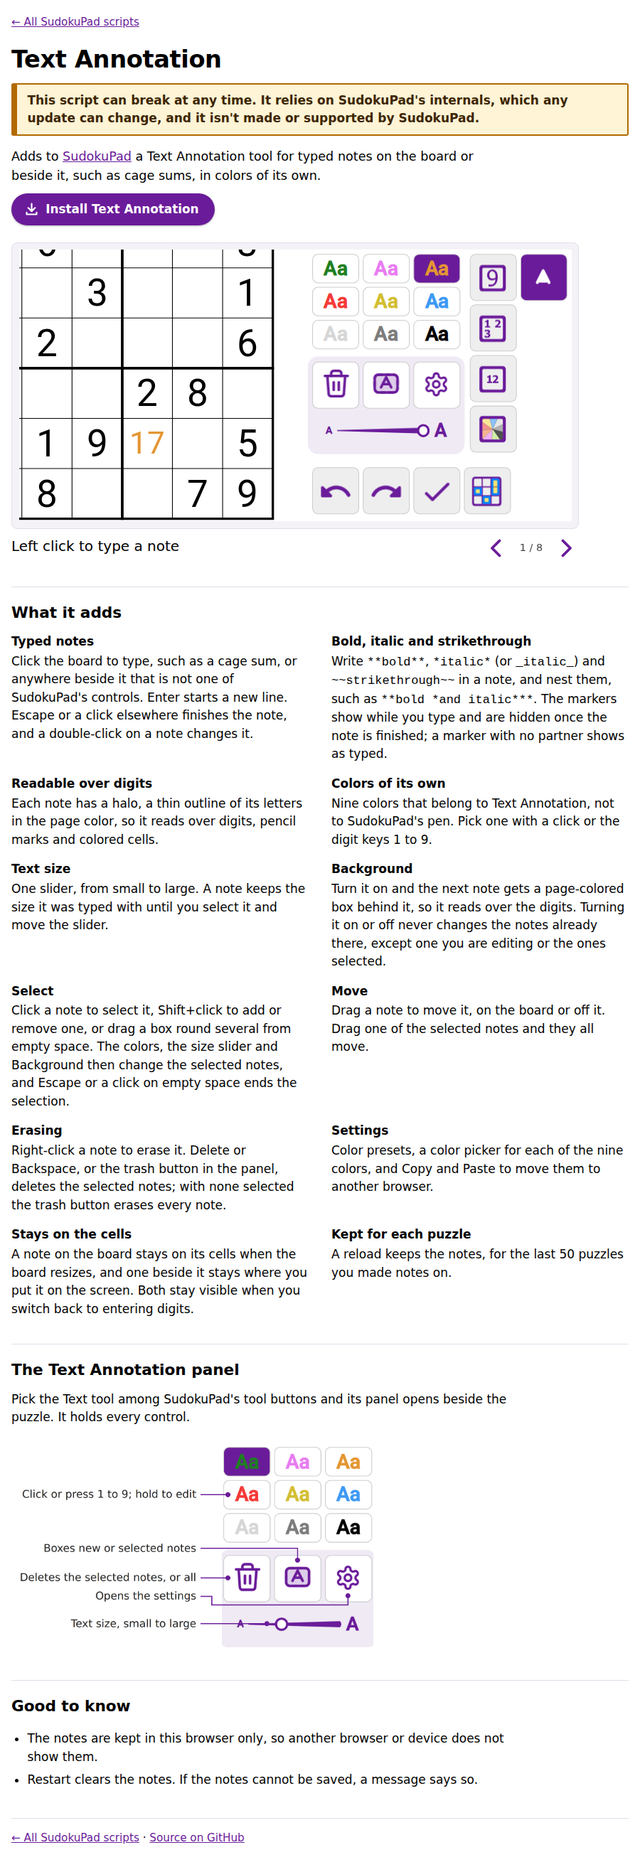
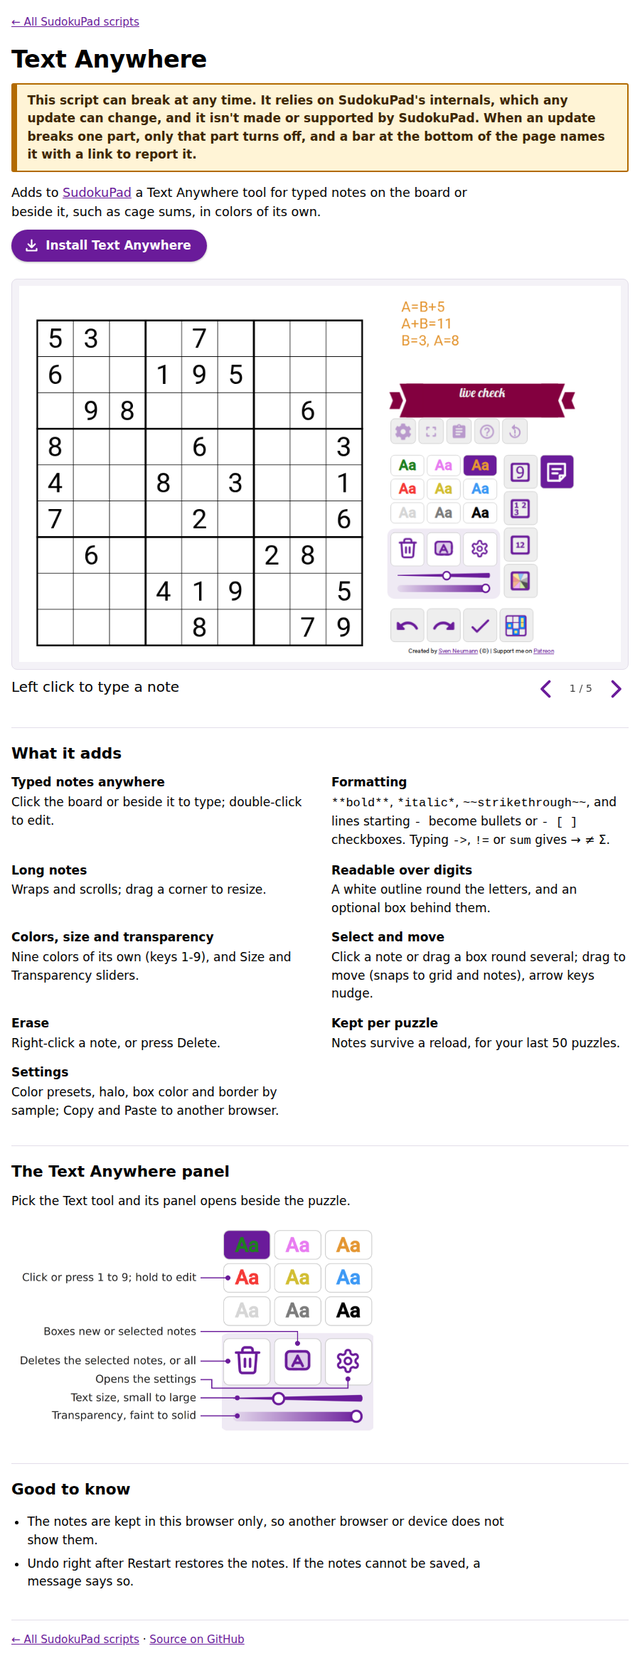
Text Anywhere: symbols as you type, checklists, see-through drag (#548)
* Text Anywhere: symbols as you type, checklists, see-through drag (#532)

Closes #532

* Text Anywhere: review fixes — sum on close, typed-only symbols, shared opacity, glossary (#532)

Closes #532

---------

Changed region(s): [[0.0, 0.0, 0.9956, 0.9957], [0.9333, 0.6535, 0.9644, 0.6846], [0.7156, 0.7468, 0.7467, 0.7779]]

diff --git a/draw-tool.user.js b/draw-tool.user.js
@@ -1,7 +1,7 @@
 // ==UserScript==
 // @name         SudokuPad Text Anywhere
 // @namespace    https://github.com/caneff/sudokupad-scripts
-// @version      0.32.0
+// @version      0.33.0
 // @description  Adds a Text Anywhere tool for typed notes on the board or beside it, such as cage sums, in colors of its own. Each puzzle keeps its own notes.
 // @match        https://sudokupad.app/*
 // @match        https://*.sudokupad.app/*
@@ -16,7 +16,7 @@
 (function () {
   'use strict'
 
-  const VERSION = '0.32.0'
+  const VERSION = '0.33.0'
   const TOOL_NAME = 'draw'
   const LAYER_ID = 'draw-tool-layer'
   const MIN_WIDTH = 1
@@ -217,6 +217,12 @@
   const TEXT_CLASS = 'draw-tool-text'
   const TEXT_BACKGROUND_CLASS = 'draw-tool-text-bg'
   const SELECTED_CLASS = 'draw-tool-selected'
+  const CHECK_CLASS = 'draw-tool-check'
+  const CHECK_DONE_CLASS = 'draw-tool-check-done'
+  // A ticked item's line fades to this share of the note's own look.
+  const DONE_OPACITY = 0.6
+  // A note being moved is drawn at this share of its own opacity, so the board shows through.
+  const MOVING_OPACITY = 0.6
   // The notes' two groups in the layer: the notes on the board, in board units under the board's own transform, and the fixed notes, in screen pixels,
   // drawn above them.
   const BOARD_NOTES_CLASS = 'draw-tool-board'
@@ -338,8 +344,36 @@
   }
 
   const BULLET_MARK = /^[-*] /
-  // A bullet line's first run is the bullet itself, `{ text: '•', bullet: true }`.
-  const parseBlock = (line) => BULLET_MARK.test(line) ? [{ text: '•', bullet: true }, ...parseLine(line.slice(2))] : parseLine(line)
+  const CHECK_MARK = /^- \[([ xX])\] /
+  // A bullet line's first run is the bullet itself, `{ text: '•', bullet: true }`. A checklist line takes the bullet's place with `{ text: '☐' | '☑', bullet: true, checked }`.
+  function parseBlock (line) {
+    const check = CHECK_MARK.exec(line)
+    if (check) {
+      const checked = check[1] !== ' '
+      return [{ text: checked ? '☑' : '☐', bullet: true, checked }, ...parseLine(line.slice(check[0].length))]
+    }
+    return BULLET_MARK.test(line) ? [{ text: '•', bullet: true }, ...parseLine(line.slice(2))] : parseLine(line)
+  }
+
+  function toggledCheck (text, index) {
+    return text.split('\n').map((line, i) => i === index ? line.replace(CHECK_MARK, (mark, state) => `- [${state === ' ' ? 'x' : ' '}] `) : line).join('\n')
+  }
+
+  // Symbols typed as ASCII. `sum` is a word of its own, so "summary" stays.
+  const SYMBOLS = { '->': '→', '<-': '←', '!=': '≠', '<=': '≤', '>=': '≥', sum: 'Σ' }
+  const SYMBOL_PATTERN = /->|<-|!=|<=|>=|\bsum\b/g
+  // A note that ends in the word `sum` has no character typed after it to complete it, so closing the note does.
+  const closedSymbols = (text) => text.replace(/\bsum$/, SYMBOLS.sum)
+
+  // The symbol the character just typed before `caret` completed, or null. A pair is complete at the caret; `sum` only once a character that is not part of a word follows it.
+  function symbolJustTyped (text, caret) {
+    for (const found of text.slice(0, caret).matchAll(SYMBOL_PATTERN)) {
+      const end = found.index + found[0].length
+      if (end === caret && found[0] !== 'sum') return { start: found.index, end, symbol: SYMBOLS[found[0]] }
+      if (end === caret - 1 && found[0] === 'sum') return { start: found.index, end, symbol: SYMBOLS.sum }
+    }
+    return null
+  }
 
   const isBullet = (runs) => Boolean(runs[0]?.bullet)
   const BULLET_INDENT_EM = 1.2
@@ -548,6 +582,8 @@
   const textSizeFor = (width) => TEXT_SIZE_PER_WIDTH * width + TEXT_SIZE_BASE
   const widthFor = (size) => (size - TEXT_SIZE_BASE) / TEXT_SIZE_PER_WIDTH
   const itemOpacity = (item) => item.opacity ?? DEFAULT_OPACITY
+  // A note's opacity as the CSS number.
+  const noteOpacity = (item) => itemOpacity(item) / 100
   const readOpacity = (saved) => isOpacity(saved) ? saved : DEFAULT_OPACITY
 
   // A color or background the notes do not share is null; a slider must show one value, so it shows the first note's (the oldest).
@@ -1515,7 +1551,7 @@
     return Math.round(from + (to - from) * Math.min(1, (heldMs - NUDGE_REPEAT_MS) / NUDGE_RAMP_MS))
   }
   if (typeof module !== 'undefined' && module.exports) {
-    module.exports = { snapAxis, SNAP_PX, nudgeStep, NUDGE_PX, NUDGE_SHIFT_PX, NUDGE_REPEAT_MS, NUDGE_RAMP_MS, NUDGE_MAX_PX, NUDGE_SHIFT_MAX_PX, VERSION, lackingInternals, FEATURES, READERS, TOOL_NAME, toolNamesFor, readDrawing, loadDrawing, puzzleKey, touchIndex, readIndex, saveDrawingTo, keepRestartedTo, DRAWING_PREFIX, RESTARTED_PREFIX, INDEX_KEY, DEFAULT_COLOR, DEFAULT_WIDTH, MIN_WIDTH, MAX_WIDTH, MIN_OPACITY, MAX_OPACITY, DEFAULT_OPACITY, drawColor, readColor, readWidth, readBackground, textSizeFor, OUTLINES, DEFAULT_OUTLINE, OUTLINE_LABELS, readOutline, haloShadow, OUTLINE_EM, itemOpacity, readOpacity, ERASE_TOLERANCE, textItem, textBox, noteBox, parseMarkdown, notesTouched, panelLooks, touchesText, placedItem, boardView, screenPoint, SHOWN_AT, noteScreenBox, resizedItem, autoSized, CORNERS, reachablePoint, DRAWN_SIZE, BOX_WIDTH_EM, BOX_LINES, LINE_HEIGHT, MIN_BOX_EM, isClick, CLICK_SLOP, SUDOKUPAD_PEN_COLORS, hexColor, readDrawColors, presetOptions, presetColors, copiedSettings, pastedSettings, pasteReport, PRESET_LABELS, COLORS_KEY, WIDTH_KEY, OPACITY_KEY, OUTLINE_KEY, BACKGROUND_KEY, BOX_KEY, FRAME_KEY, BOX_PRESETS, DEFAULT_BOX, BOX_YELLOW, readBox, boxChoice, boxFill, FRAME_COLOR, readFrame, frameShadow, renderSamplePicks, copiedPenColors, editedColor, colorsCss, HOLD_TO_EDIT_MS }
+    module.exports = { snapAxis, SNAP_PX, nudgeStep, NUDGE_PX, NUDGE_SHIFT_PX, NUDGE_REPEAT_MS, NUDGE_RAMP_MS, NUDGE_MAX_PX, NUDGE_SHIFT_MAX_PX, VERSION, lackingInternals, FEATURES, READERS, TOOL_NAME, toolNamesFor, readDrawing, loadDrawing, puzzleKey, touchIndex, readIndex, saveDrawingTo, keepRestartedTo, DRAWING_PREFIX, RESTARTED_PREFIX, INDEX_KEY, DEFAULT_COLOR, DEFAULT_WIDTH, MIN_WIDTH, MAX_WIDTH, MIN_OPACITY, MAX_OPACITY, DEFAULT_OPACITY, drawColor, readColor, readWidth, readBackground, textSizeFor, OUTLINES, DEFAULT_OUTLINE, OUTLINE_LABELS, readOutline, haloShadow, OUTLINE_EM, itemOpacity, readOpacity, ERASE_TOLERANCE, textItem, textBox, noteBox, parseMarkdown, closedSymbols, symbolJustTyped, toggledCheck, notesTouched, panelLooks, touchesText, placedItem, boardView, screenPoint, SHOWN_AT, noteScreenBox, resizedItem, autoSized, CORNERS, reachablePoint, DRAWN_SIZE, BOX_WIDTH_EM, BOX_LINES, LINE_HEIGHT, MIN_BOX_EM, isClick, CLICK_SLOP, SUDOKUPAD_PEN_COLORS, hexColor, readDrawColors, presetOptions, presetColors, copiedSettings, pastedSettings, pasteReport, PRESET_LABELS, COLORS_KEY, WIDTH_KEY, OPACITY_KEY, OUTLINE_KEY, BACKGROUND_KEY, BOX_KEY, FRAME_KEY, BOX_PRESETS, DEFAULT_BOX, BOX_YELLOW, readBox, boxChoice, boxFill, FRAME_COLOR, readFrame, frameShadow, renderSamplePicks, copiedPenColors, editedColor, colorsCss, HOLD_TO_EDIT_MS }
   }
   if (typeof document === 'undefined') return
 
@@ -1596,8 +1632,8 @@
       maxWidth: limit,
       maxHeight: limit,
       color: itemColor(item.color),
-      opacity: String(itemOpacity(item) / 100),
-      [NOTE_OPACITY_VAR]: String(itemOpacity(item) / 100),
+      opacity: String(noteOpacity(item)),
+      [NOTE_OPACITY_VAR]: String(noteOpacity(item)),
       backgroundColor: item.bg ? boxFill(boxColor, itemColor(item.color)) : 'transparent',
       boxShadow: item.bg ? frameShadow(frame) : 'none',
       textShadow: item.bg ? 'none' : haloShadow(outline, PAGE_COLOR),
@@ -1630,12 +1666,23 @@
     return element
   }
 
+  function checkBox (checked, lineIndex) {
+    const box = document.createElement('span')
+    box.className = checked ? `${CHECK_CLASS} ${CHECK_DONE_CLASS}` : CHECK_CLASS
+    box.dataset.line = String(lineIndex)
+    return box
+  }
+
   // A bullet line is a block whose first line hangs out over the indent: the bullet sits in the indent, wrapped lines start at its right.
-  function bulletElement ([mark, ...runs]) {
+  function bulletElement ([mark, ...runs], lineIndex) {
     const line = document.createElement('div')
     Object.assign(line.style, { paddingLeft: `${BULLET_INDENT_EM}em`, textIndent: `-${BULLET_INDENT_EM}em` })
     const bullet = document.createElement('span')
-    bullet.textContent = mark.text
+    if (mark.checked === undefined) bullet.textContent = mark.text
+    else {
+      bullet.append(checkBox(mark.checked, lineIndex))
+      if (mark.checked) Object.assign(line.style, { textDecoration: 'line-through', opacity: String(DONE_OPACITY) })
+    }
     Object.assign(bullet.style, { display: 'inline-block', width: `${BULLET_INDENT_EM}em`, textIndent: '0' })
     line.append(bullet, ...runs.map(runElement))
     return line
@@ -1647,7 +1694,7 @@
   // A finished note shows the styled runs, lines joined by line breaks.
   function noteContent (text) {
     const lines = parsedText(text)
-    return lines.flatMap((runs, i) => [...(i && breaksBefore(runs, lines[i - 1]) ? ['\n'] : []), ...(isBullet(runs) ? [bulletElement(runs)] : runs.map(runElement))])
+    return lines.flatMap((runs, i) => [...(i && breaksBefore(runs, lines[i - 1]) ? ['\n'] : []), ...(isBullet(runs) ? [bulletElement(runs, i)] : runs.map(runElement))])
   }
 
   // The note open for typing shows its text as typed, markers and all.
@@ -1786,6 +1833,9 @@
     // The fill is a background image because the note's inline background color, empty or its box, wins over any stylesheet color.
     `.${ACTIVE_CLASS} .${TEXT_CLASS}:not(.${TEXT_BOX_CLASS}) { pointer-events: auto; cursor: move; }`,
     `.${ACTIVE_CLASS} .${TEXT_CLASS}:not(.${TEXT_BOX_CLASS}, .${SELECTED_CLASS}):hover { ${hoverLook(35, 4)} }`,
+    `.${CHECK_CLASS} { display: inline-block; box-sizing: border-box; width: 0.8em; height: 0.8em; border: 2px solid currentColor; border-radius: 3px; vertical-align: -0.05em; position: relative; }`,
+    `.${CHECK_DONE_CLASS}::after { content: ''; position: absolute; left: 0.2em; top: -0.1em; width: 0.25em; height: 0.5em; border: solid currentColor; border-width: 0 2px 2px 0; transform: rotate(45deg); }`,
+    `.${ACTIVE_CLASS} .${TEXT_CLASS}:not(.${TEXT_BOX_CLASS}) .${CHECK_CLASS} { cursor: pointer; }`,
     `:is(.${BOARD_NOTES_CLASS}, .${SCREEN_NOTES_CLASS}) { position: absolute; left: 0; top: 0; transform-origin: 0 0; }`,
     // The outline is a box of its own in the layer, since a note's opacity would fade an outline drawn on the note itself.
     `.${SELECTION_CLASS} { position: absolute; box-sizing: border-box; pointer-events: none; outline: ${SELECTION_OUTLINE_PX}px solid ${PANEL_COLOR}; outline-offset: ${SELECTION_OFFSET_PX}px; }`,
@@ -2644,13 +2694,35 @@
       else finishText()
     }))
     // Typing grows the box, which carries the handles and may start the text scrolling.
-    element.addEventListener('input', under(textTool, () => { if (editing && editing.element === element) showEditing(boardMap()) }))
+    element.addEventListener('input', under(textTool, (event) => {
+      if (!editing || editing.element !== element) return
+      // Only a typed character completes a symbol: deleting, pasting and Undo leave the text as it is.
+      if (event.inputType === 'insertText') replaceTypedSymbol()
+      showEditing(boardMap())
+    }))
     editing = { index, item, element }
     drawingLayer().append(element)
     redraw()
     element.focus()
     window.getSelection().selectAllChildren(element)
     window.getSelection().collapseToEnd()
+  }
+
+  // A symbol the last typed character completed is typed over with its sign, as an insertion, so the caret stays after it and the browser's Undo can give the typed characters back.
+  function replaceTypedSymbol () {
+    const selection = window.getSelection()
+    const { anchorNode, anchorOffset } = selection
+    if (!selection.isCollapsed || anchorNode?.nodeType !== window.Node.TEXT_NODE || !editing.element.contains(anchorNode)) return
+    const found = symbolJustTyped(anchorNode.data, anchorOffset)
+    if (!found) return
+    const range = document.createRange()
+    range.setStart(anchorNode, found.start)
+    range.setEnd(anchorNode, found.end)
+    selection.removeAllRanges()
+    selection.addRange(range)
+    document.execCommand('insertText', false, found.symbol)
+    // `sum` ends before the character typed after it, which the insertion carried the caret behind.
+    if (found.end !== anchorOffset) selection.modify('move', 'forward', 'character')
   }
 
   // The focus went to a panel button (`caret` was saved then, null with no caret); the note takes it back, once.
@@ -2685,7 +2757,8 @@
   function finishText () {
     const { index, item, element } = closeEditing()
     const before = index === -1 ? '' : drawing[index].text
-    const text = typedText(element)
+    const typed = typedText(element)
+    const text = typed === before ? typed : closedSymbols(typed)
     const changed = text !== before || (index !== -1 && (item.color !== drawing[index].color || item.size !== drawing[index].size || itemOpacity(item) !== itemOpacity(drawing[index]) || Boolean(item.bg) !== Boolean(drawing[index].bg) || String(item.box) !== String(drawing[index].box)))
     if (changed) {
       if (text === '') drawing.splice(index, 1)
@@ -2722,6 +2795,15 @@
   // pointer is released, even when the slider did not move.
   function keepNoteFocus (event) {
     if (editing && isPanelControl(event.target) && !event.target.closest(`.${SLIDERS_CLASS} input`)) event.preventDefault()
+  }
+
+  // A press on a checklist box ticks or unticks its item and saves the note; it opens no note and starts no drag.
+  function tickCheck (note, box) {
+    const index = drawing.findIndex((item) => item[NOTE_ELEMENT] === note)
+    if (index === -1) return
+    drawing[index] = { ...drawing[index], text: toggledCheck(drawing[index].text, Number(box.dataset.line)) }
+    saveNotes()
+    redraw()
   }
 
   // A drag ends its move or its selection rectangle on its release; a press that never moved does nothing more, unless `click` is given to run it.
@@ -2793,6 +2875,7 @@
       const [x, y] = screenPoint(item, map.toScreen)
       const [tx, ty] = item.fixed ? [dx, dy] : map.toBoard([x + dx, y + dy]).map((v, i) => v - item.at[i])
       element.style.translate = `${tx}px ${ty}px`
+      element.style.opacity = String(noteOpacity(item) * MOVING_OPACITY)
     }
   }
 
@@ -2831,7 +2914,7 @@
 
   function clearMove (d) {
     showGuides(null)
-    for (const { item } of d.move) if (item[NOTE_ELEMENT]) item[NOTE_ELEMENT].style.translate = ''
+    for (const { item } of d.move) if (item[NOTE_ELEMENT]) Object.assign(item[NOTE_ELEMENT].style, { translate: '', opacity: String(noteOpacity(item)) })
   }
 
   // The moves that reached the drag since the last frame, in order. A move goes no further than the last point that leaves every note reachable.
@@ -3088,6 +3171,11 @@
       // A press on a note moves the selection once it drags, after selecting just that note when it was not selected; with Shift it only adds or removes the note on its release.
       // A press on empty space draws a selection rectangle once it drags.
       const note = noteOf(event)
+      const box = event.target.closest(`.${CHECK_CLASS}`)
+      if (note && box) {
+        tickCheck(note, box)
+        return true
+      }
       const start = note ? drawing.findIndex((item) => item[NOTE_ELEMENT] === note) : -1
       const shift = event.shiftKey
       if (start !== -1 && !shift && !selected.includes(start)) select([start])

diff --git a/test/draw-tool.test.js b/test/draw-tool.test.js
@@ -6,7 +6,7 @@ const path = require('node:path')
 const { headerVersion } = require('./header-version.js')
 const { quietly } = require('./fake-store.js')
 const { failEachListener } = require('./specs/broken-sudokupad.js')
-const { snapAxis, SNAP_PX, nudgeStep, NUDGE_PX, NUDGE_SHIFT_PX, NUDGE_REPEAT_MS, NUDGE_RAMP_MS, NUDGE_MAX_PX, NUDGE_SHIFT_MAX_PX, VERSION, lackingInternals, FEATURES, TOOL_NAME, toolNamesFor, readDrawing, loadDrawing, touchIndex, readIndex, saveDrawingTo, keepRestartedTo, DRAWING_PREFIX, RESTARTED_PREFIX, INDEX_KEY, DEFAULT_COLOR, DEFAULT_WIDTH, MIN_WIDTH, MAX_WIDTH, DEFAULT_OPACITY, drawColor, readColor, readWidth, readBackground, textSizeFor, itemOpacity, ERASE_TOLERANCE, textItem, textBox, noteBox, parseMarkdown, notesTouched, panelLooks, touchesText, placedItem, boardView, screenPoint, SHOWN_AT, resizedItem, autoSized, CORNERS, reachablePoint, noteScreenBox, DRAWN_SIZE, isClick, CLICK_SLOP, SUDOKUPAD_PEN_COLORS, hexColor, readDrawColors, copiedPenColors, editedColor, colorsCss, presetOptions, presetColors, copiedSettings, pastedSettings, READERS, PRESET_LABELS, COLORS_KEY, WIDTH_KEY, OPACITY_KEY, OUTLINE_KEY, MIN_OPACITY, MAX_OPACITY, readOpacity, OUTLINES, DEFAULT_OUTLINE, OUTLINE_LABELS, readOutline, haloShadow, OUTLINE_EM, BOX_KEY, FRAME_KEY, BOX_PRESETS, DEFAULT_BOX, readBox, boxChoice, boxFill, readFrame, frameShadow, renderSamplePicks, FRAME_COLOR, BOX_YELLOW } = require('../draw-tool.user.js')
+const { snapAxis, SNAP_PX, nudgeStep, NUDGE_PX, NUDGE_SHIFT_PX, NUDGE_REPEAT_MS, NUDGE_RAMP_MS, NUDGE_MAX_PX, NUDGE_SHIFT_MAX_PX, VERSION, lackingInternals, FEATURES, TOOL_NAME, toolNamesFor, readDrawing, loadDrawing, touchIndex, readIndex, saveDrawingTo, keepRestartedTo, DRAWING_PREFIX, RESTARTED_PREFIX, INDEX_KEY, DEFAULT_COLOR, DEFAULT_WIDTH, MIN_WIDTH, MAX_WIDTH, DEFAULT_OPACITY, drawColor, readColor, readWidth, readBackground, textSizeFor, itemOpacity, ERASE_TOLERANCE, textItem, textBox, noteBox, parseMarkdown, closedSymbols, symbolJustTyped, toggledCheck, notesTouched, panelLooks, touchesText, placedItem, boardView, screenPoint, SHOWN_AT, resizedItem, autoSized, CORNERS, reachablePoint, noteScreenBox, DRAWN_SIZE, isClick, CLICK_SLOP, SUDOKUPAD_PEN_COLORS, hexColor, readDrawColors, copiedPenColors, editedColor, colorsCss, presetOptions, presetColors, copiedSettings, pastedSettings, READERS, PRESET_LABELS, COLORS_KEY, WIDTH_KEY, OPACITY_KEY, OUTLINE_KEY, MIN_OPACITY, MAX_OPACITY, readOpacity, OUTLINES, DEFAULT_OUTLINE, OUTLINE_LABELS, readOutline, haloShadow, OUTLINE_EM, BOX_KEY, FRAME_KEY, BOX_PRESETS, DEFAULT_BOX, readBox, boxChoice, boxFill, readFrame, frameShadow, renderSamplePicks, FRAME_COLOR, BOX_YELLOW } = require('../draw-tool.user.js')
 const readPaste = (text) => pastedSettings(text, READERS)
 
 // The parts of an Event toolNamesFor reads: eventPhase is 0 once the browser has finished dispatching it.
@@ -621,6 +621,57 @@ test('a dash that does not start a line, or has no space after it, is not a bull
 
 test('a line that starts with italic markers and no space is italic, not a bullet', () => {
   assert.deepEqual(parseMarkdown('*one* and'), [[{ text: 'one', italic: true }, { text: ' and' }]])
+})
+
+test('a line starting "- [ ] " or "- [x] " is a checklist item, a box run with its checked state, then the rest read as markdown', () => {
+  assert.deepEqual(parseMarkdown('- [ ] buy'), [[{ text: '☐', bullet: true, checked: false }, { text: 'buy' }]])
+  assert.deepEqual(parseMarkdown('- [x] **done**'), [[{ text: '☑', bullet: true, checked: true }, { text: 'done', bold: true }]])
+  assert.deepEqual(parseMarkdown('- [X] caps')[0][0].checked, true)
+})
+
+test('a "- [" line without the box shape, or a plain "- " line, stays a bullet', () => {
+  assert.deepEqual(parseMarkdown('- [] x'), [[{ text: '•', bullet: true }, { text: '[] x' }]])
+  assert.deepEqual(parseMarkdown('- [ ]x'), [[{ text: '•', bullet: true }, { text: '[ ]x' }]])
+  assert.deepEqual(parseMarkdown('- one'), [[{ text: '•', bullet: true }, { text: 'one' }]])
+})
+
+test('toggledCheck flips one line\'s box and leaves the other lines alone', () => {
+  assert.equal(toggledCheck('a\n- [ ] b\n- [ ] c', 1), 'a\n- [x] b\n- [ ] c')
+  assert.equal(toggledCheck('- [x] b', 0), '- [ ] b')
+  assert.equal(toggledCheck('- [X] b', 0), '- [ ] b')
+  assert.equal(toggledCheck('plain', 0), 'plain')
+})
+
+test('closedSymbols turns a note\'s last word "sum" into a sigma, since nothing is typed after it', () => {
+  assert.equal(closedSymbols('r5 sum'), 'r5 Σ')
+  assert.equal(closedSymbols('sum'), 'Σ')
+  assert.equal(closedSymbols('sum of 5'), 'sum of 5')
+  assert.equal(closedSymbols('summary'), 'summary')
+  assert.equal(closedSymbols('subsum'), 'subsum')
+  assert.equal(closedSymbols('a->b'), 'a->b')
+})
+
+test('symbolJustTyped gives each pair its sign', () => {
+  const sign = (pair) => symbolJustTyped(`a${pair}`, 3).symbol
+  assert.deepEqual(['->', '<-', '!=', '<=', '>='].map(sign), ['→', '←', '≠', '≤', '≥'])
+})
+
+test('symbolJustTyped leaves text without a symbol alone', () => {
+  assert.equal(symbolJustTyped('a - b < c = d > e !', 19), null)
+  assert.equal(symbolJustTyped('', 0), null)
+})
+
+test('symbolJustTyped finds the pair that ends at the caret, with the sign to put there', () => {
+  assert.deepEqual(symbolJustTyped('a->', 3), { start: 1, end: 3, symbol: '→' })
+  assert.deepEqual(symbolJustTyped('a>=b', 3), { start: 1, end: 3, symbol: '≥' })
+  assert.equal(symbolJustTyped('a-', 2), null)
+  assert.equal(symbolJustTyped('a->b', 4), null)
+})
+
+test('symbolJustTyped replaces "sum" only once the character after it is typed, so "summary" survives', () => {
+  assert.equal(symbolJustTyped('sum', 3), null)
+  assert.equal(symbolJustTyped('summ', 4), null)
+  assert.deepEqual(symbolJustTyped('x sum ', 6), { start: 2, end: 5, symbol: 'Σ' })
 })
 
 const width = (item) => textBox(item).right - textBox(item).left

diff --git a/site/draw-tool.html b/site/draw-tool.html
@@ -36,15 +36,15 @@
 
   <h2>What it adds</h2>
   <ul class="features">
-    <li><strong>Typed notes anywhere</strong> <p>Click the board, or beside it, to type. Enter starts a new line; a double-click edits a note.</p></li>
-    <li><strong>Formatting</strong> <p><code>**bold**</code>, <code>*italic*</code>, <code>~~strikethrough~~</code>, and lines starting <code>- </code> become bullets.</p></li>
-    <li><strong>Long notes</strong> <p>A long note wraps and scrolls; drag a corner to resize it.</p></li>
-    <li><strong>Readable over digits</strong> <p>A white outline round the letters, and an optional box behind the note.</p></li>
+    <li><strong>Typed notes anywhere</strong> <p>Click the board or beside it to type; double-click to edit.</p></li>
+    <li><strong>Formatting</strong> <p><code>**bold**</code>, <code>*italic*</code>, <code>~~strikethrough~~</code>, and lines starting <code>- </code> become bullets or <code>- [ ] </code> checklist items. Typing <code>-></code>, <code>!=</code> or <code>sum</code> gives → ≠ Σ.</p></li>
+    <li><strong>Long notes</strong> <p>Wraps and scrolls; drag a corner to resize.</p></li>
+    <li><strong>Readable over digits</strong> <p>A white outline round the letters, and an optional box behind them.</p></li>
     <li><strong>Colors, size and transparency</strong> <p>Nine colors of its own (keys 1-9), and Size and Transparency sliders.</p></li>
     <li><strong>Select and move</strong> <p>Click a note or drag a box round several; drag to move (snaps to grid and notes), arrow keys nudge.</p></li>
     <li><strong>Erase</strong> <p>Right-click a note, or press Delete.</p></li>
     <li><strong>Kept per puzzle</strong> <p>Notes survive a reload, for your last 50 puzzles.</p></li>
-    <li><strong>Settings</strong> <p>Color presets, halo, box color and box border picked from samples, and Copy and Paste to another browser.</p></li>
+    <li><strong>Settings</strong> <p>Color presets, halo, box color and border by sample; Copy and Paste to another browser.</p></li>
   </ul>
 
   <h2>The Text Anywhere panel</h2>

diff --git a/test/site.test.js b/test/site.test.js
@@ -447,15 +447,15 @@ test(`${HOME} describes Text Anywhere in a short summary ending in a Details lin
 
 test(`${DRAW} lists what the script adds as a grid of short items, one per feature`, () => {
   assert.deepEqual(section(DRAW, 'What it adds'), [
-    'Typed notes anywhere Click the board, or beside it, to type. Enter starts a new line; a double-click edits a note.',
-    'Formatting **bold**, *italic*, ~~strikethrough~~, and lines starting - become bullets.',
-    'Long notes A long note wraps and scrolls; drag a corner to resize it.',
-    'Readable over digits A white outline round the letters, and an optional box behind the note.',
+    'Typed notes anywhere Click the board or beside it to type; double-click to edit.',
+    'Formatting **bold**, *italic*, ~~strikethrough~~, and lines starting - become bullets or - [ ] checklist items. Typing ->, != or sum gives → ≠ Σ.',
+    'Long notes Wraps and scrolls; drag a corner to resize.',
+    'Readable over digits A white outline round the letters, and an optional box behind them.',
     'Colors, size and transparency Nine colors of its own (keys 1-9), and Size and Transparency sliders.',
     'Select and move Click a note or drag a box round several; drag to move (snaps to grid and notes), arrow keys nudge.',
     'Erase Right-click a note, or press Delete.',
     'Kept per puzzle Notes survive a reload, for your last 50 puzzles.',
-    'Settings Color presets, halo, box color and box border picked from samples, and Copy and Paste to another browser.'
+    'Settings Color presets, halo, box color and border by sample; Copy and Paste to another browser.'
   ])
   const grid = read(DRAW).match(/<ul class="features">([\s\S]*?)<\/ul>/)
   assert.ok(grid, `site/${DRAW} has no <ul class="features">`)

diff --git a/GLOSSARY.md b/GLOSSARY.md
@@ -220,6 +220,9 @@
   clicked, above a pinned one; among texts of one kind the one made last is on top.
 - **bullet** (a note's) — a line of a note that starts with `- ` or `* `. A finished note shows it with a `•` hanging in the indent and its wrapped lines
   under the text, with the rest of the line read as markdown; the note open for typing shows the raw `- `. A `-` anywhere else in a line is plain text.
+- **checklist item** (a note's) — a line of a note that starts with `- [ ] ` (unchecked) or `- [x] ` (checked), in place of a bullet. A finished note draws a box in the indent; a click on the box,
+  while Text Anywhere is current, ticks or unticks it and saves the note, and a checked line is struck through and faded. The note open for typing shows the raw `- [ ] `.
+- **symbol** (a note's) — a sign typed as ASCII while a note is open and replaced as it is typed: `->` `<-` `!=` `<=` `>=` become → ← ≠ ≤ ≥, and the word `sum` becomes Σ (once a character follows it, or when the note closes).
 - **box** (a note's) — the room a Text Anywhere note's text takes. A note never resized has one 16 em wide and 8 lines high at its text size, which
   it fits up to; a resized one is exactly the size a **resize handle** set, stored on the note as `box: [width, height]` in board units, on the board
   or off it, since a note off the board is drawn at the board's scale too. A long line wraps inside it and text past its bottom scrolls: the wheel over
